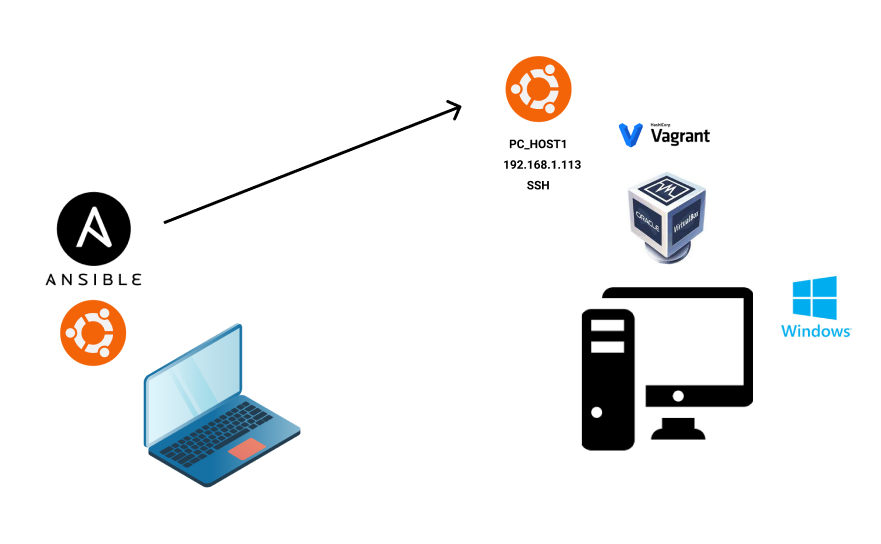
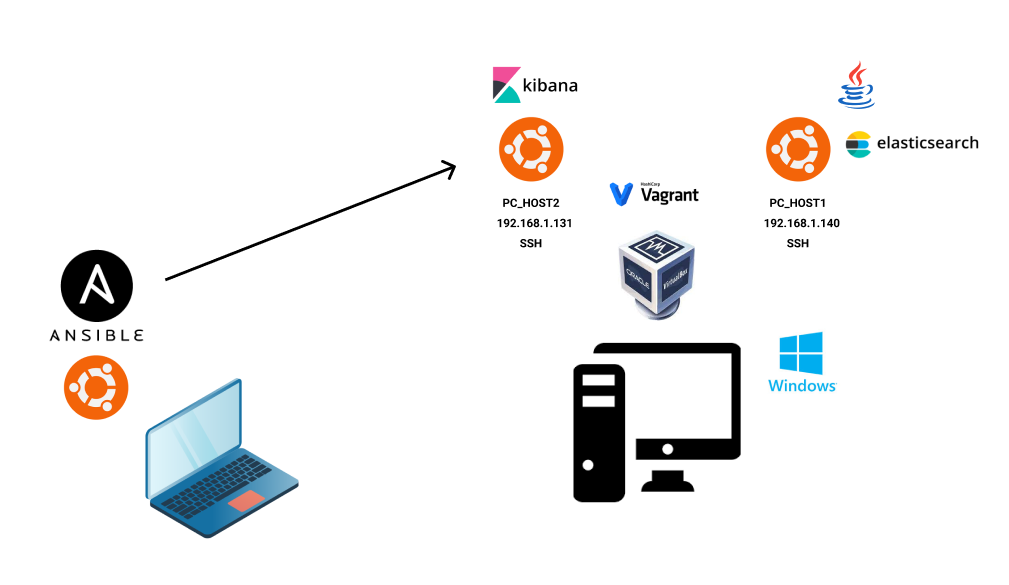
Finished rework homework 8.2

diff --git a/HomeWorks/8/8.2/README.md b/HomeWorks/8/8.2/README.md
@@ -23,11 +23,14 @@ ___
 **Ответ**
 
 + Подготовил стенд для выполнения задания как на рисунке ниже:
+
   ![img.png](./img/2.png)
 + Готовый playbook
 
   [PlayBook](./playbook/)
-+ Требуемые файлы для установки (нет репозитории - тяжелые :-) )
-  ![img.png](./img/3.png)
-+ 
++ Требуемые файлы для установки
 
+  ![img.png](./img/3.png)
++ Результат работы playbook ` ansible-playbook -i inventory/prod.yml site.yml --ask-become-pass --diff`
+
+  ![img.png](./img/4.png)
